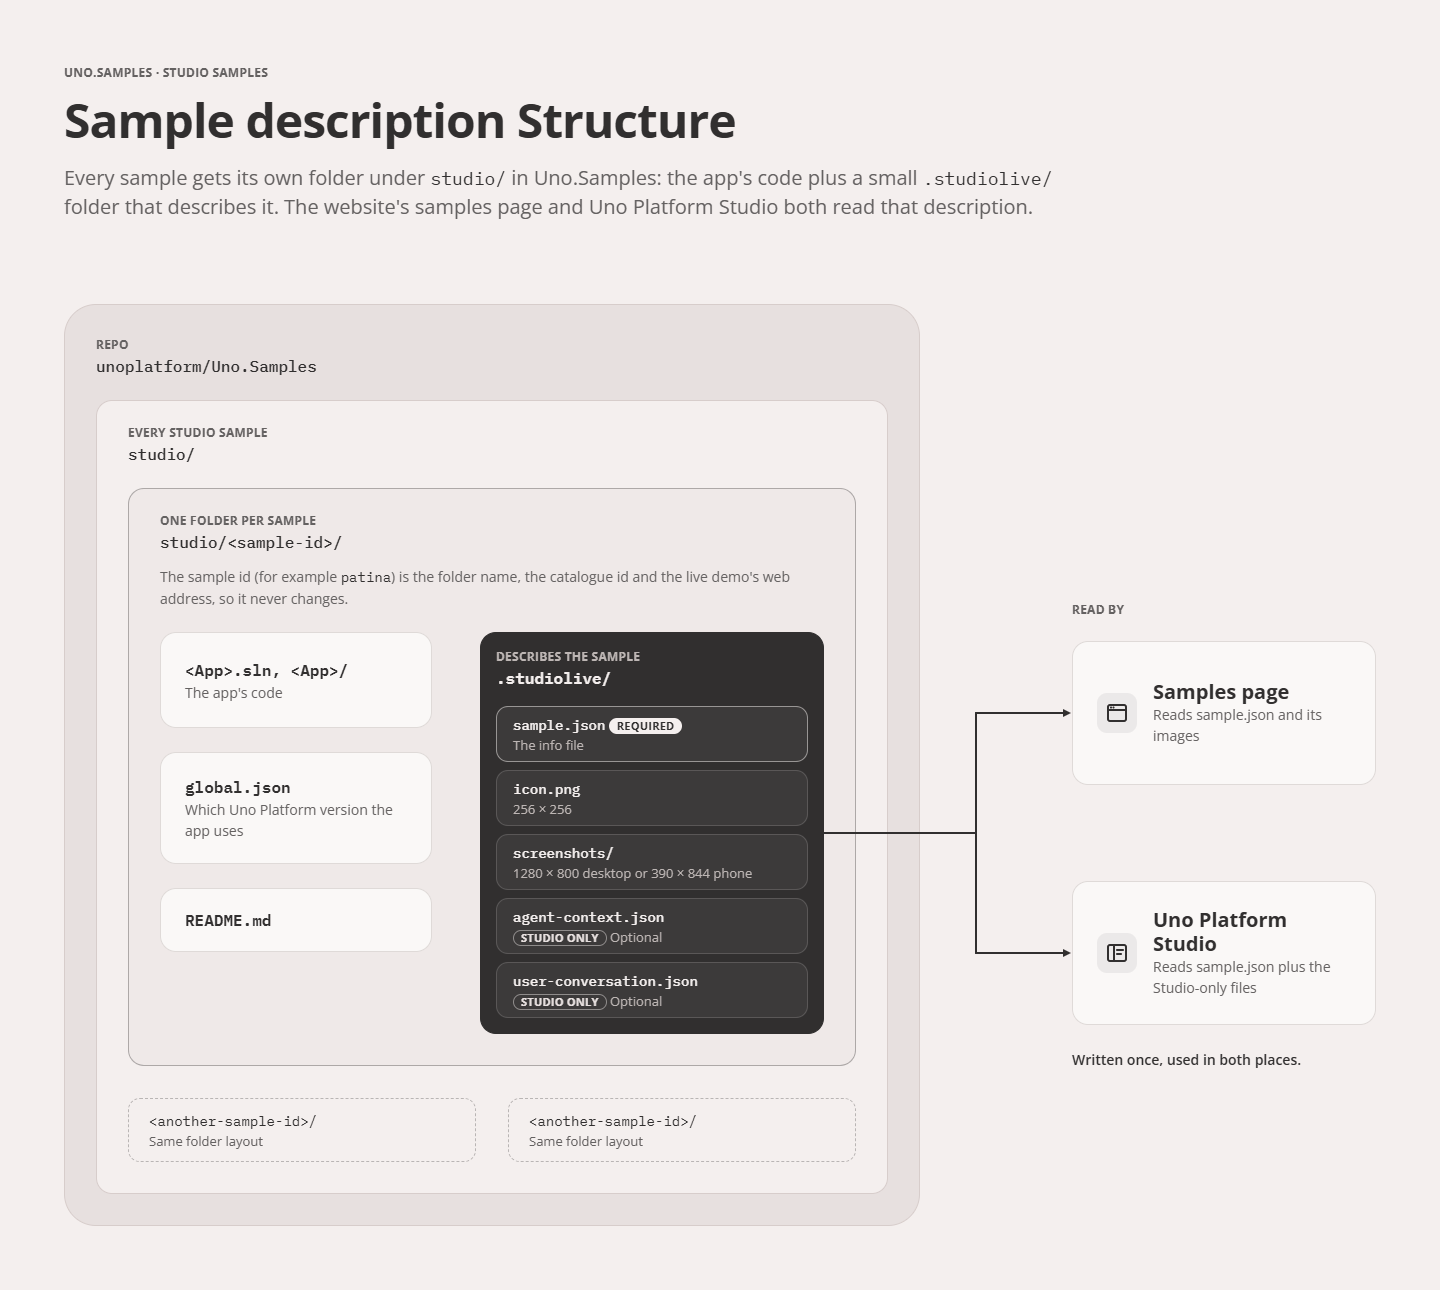
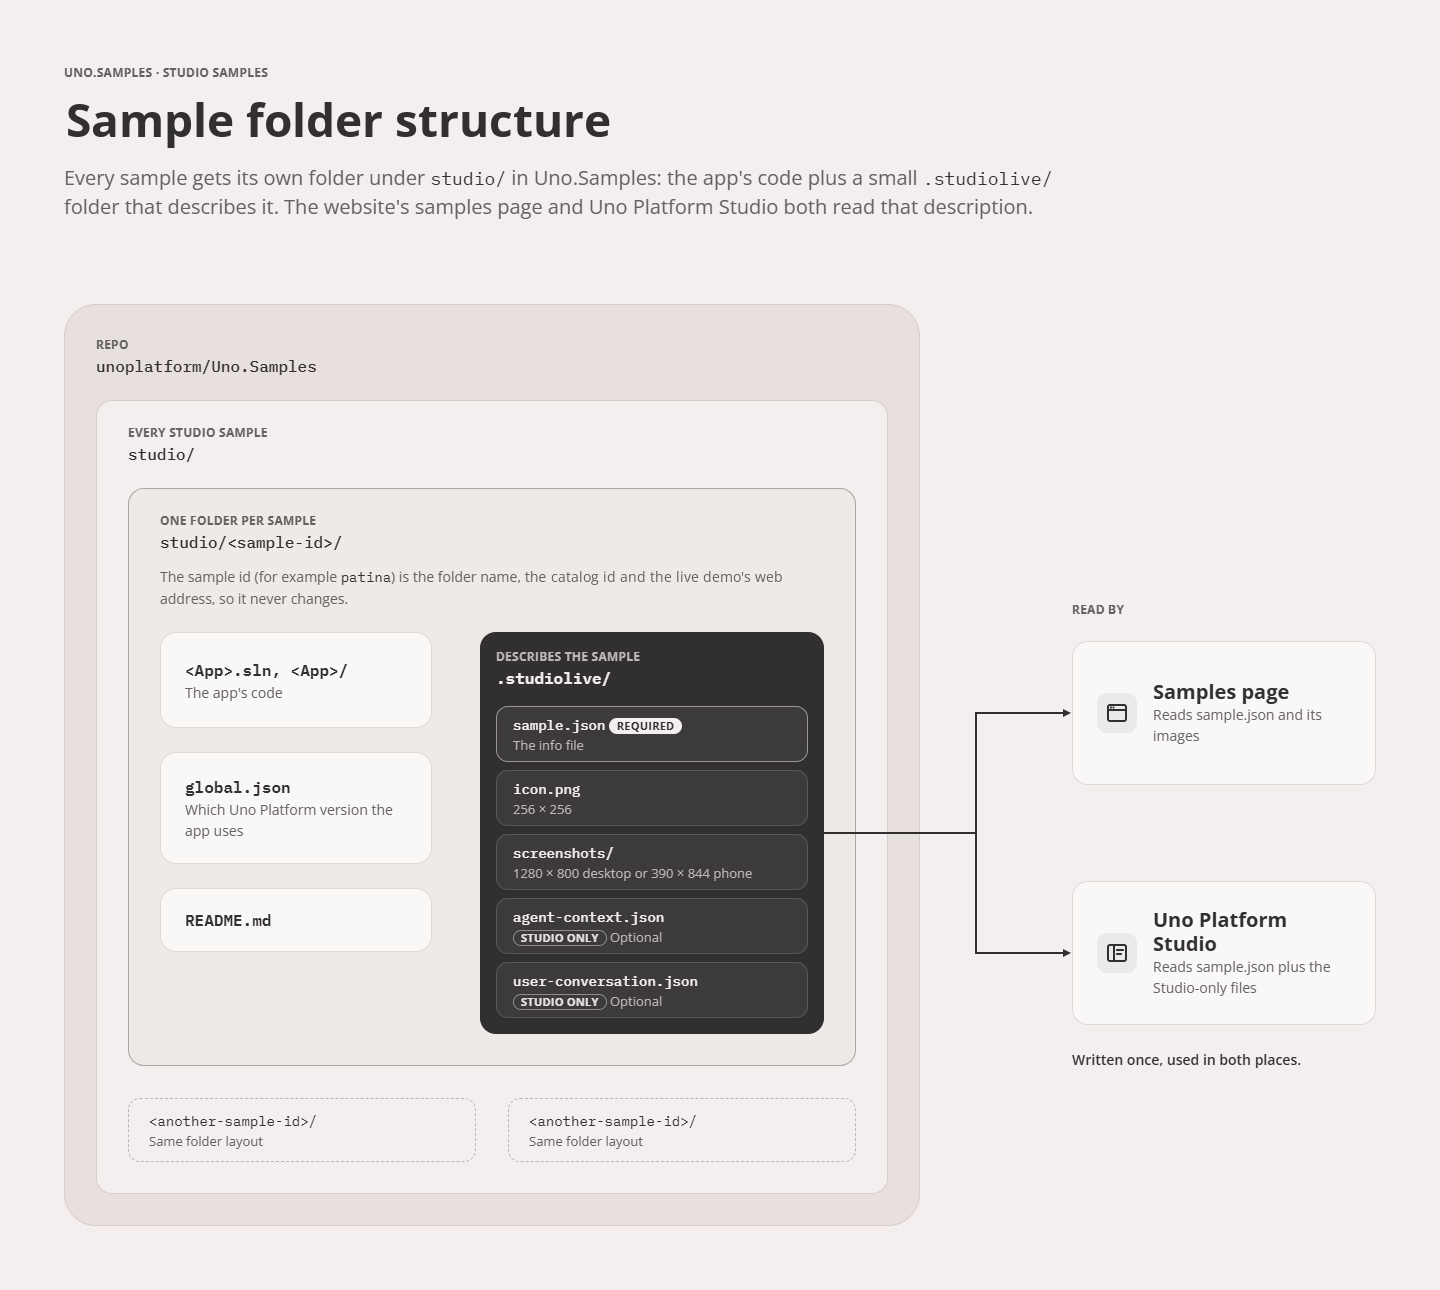
docs: describe what CI checks today and treat id as a repo convention
From the review on #967:
- The checker command drops -I (it hid user-installed Pillow) and documents --no-images and --root.
- Step 4 of "Adding a sample" says what CI does today: it builds every solution; running the checker, the
  Uno version check and the web preview are planned, so authors run the checker themselves.
- id moves out of Studio's fields into a repo-convention note: Studio doesn't read it, the checker does.
- Notes that user-conversation.json may start with an empty messages list.
- The diagram's title reads "Sample folder structure" and uses "catalog", matching the README.

Claude-Session: https://claude.ai/code/session_01WDQXJQZnNLgRRcnD2ebucM

Changed region(s): [[0.1562, 0.062, 0.5, 0.124], [0.375, 0.4341, 0.5312, 0.4651], [0.0625, 0.093, 0.0938, 0.124]]

diff --git a/studio/README.md b/studio/README.md
@@ -17,7 +17,7 @@ studio/
       user-conversation.json   # Studio: prefilled chat and suggested prompts (optional)
       icon.png                 # 256x256, referenced from sample.json
       screenshots/             # 1280x800 landscape or 390x844 portrait, referenced from sample.json
-    global.json                # pins Uno.Sdk; the PR checks read the Uno version here
+    global.json                # pins Uno.Sdk; the checker reads the Uno version here
     <App>.sln
     <App>/<App>.csproj         # sample.json points at this
     README.md
@@ -29,7 +29,7 @@ The samples added before this layout still carry `uno-sample.json` at the sample
 
 ## The info file: `.studiolive/sample.json`
 
-The file has two groups of fields. The top level is Studio's sample manifest, schema v1 (`https://schemas.platform.uno/sample/v1`). The `showcase` object holds the fields the samples page and the PR checks need. Studio does not read `showcase`.
+The file has two groups of fields. The top level is Studio's sample manifest, schema v1 (`https://schemas.platform.uno/sample/v1`). The `showcase` object holds the fields the samples page and the checker need. Studio does not read `showcase`. `id` is a repo convention on top of both (see below).
 
 Worked example, from Patina:
 
@@ -74,7 +74,6 @@ Worked example, from Patina:
 | Field | Required | What it is |
 |---|---|---|
 | `$schema` | yes | `https://schemas.platform.uno/sample/v1`. The format version lives in this URI. |
-| `id` | yes | Kebab-case id, equal to the folder name. |
 | `displayName` | yes | Name on the gallery card and in the chat. |
 | `description` | yes | The gallery card paragraph: what the app is and which patterns it uses. |
 | `platforms` | no | Any of `desktop`, `wasm`, `ios`, `android`, `macos`. Omitted means all. A showcase sample lists `wasm`, since the live demo is the web build. |
@@ -84,8 +83,12 @@ Worked example, from Patina:
 
 Studio's two optional companion files keep their current shape:
 
-- `agent-context.json`: `{ "messages": [ { "role", "content" } ] }`, the technical context the agent receives so it can keep editing the app.
-- `user-conversation.json`: `{ "messages": [...], "suggestedPrompts": [...] }`, the chat Studio shows when the sample opens.
+- `agent-context.json`: `{ "messages": [ { "role", "content" } ] }`, the technical context the agent receives so it can keep editing the app. The checker expects at least one message, since an empty context does nothing.
+- `user-conversation.json`: `{ "messages": [...], "suggestedPrompts": [...] }`, the chat Studio shows when the sample opens. Studio needs the `messages` list but not any messages in it, so an empty list with only `suggestedPrompts` is fine.
+
+### Repo convention: `id`
+
+`id` sits at the top level next to Studio's fields, but Studio doesn't read it. It is this repo's convention: kebab-case and equal to the folder name, and the checker enforces both. It keeps the info file self-describing when it is read on its own, for example by the samples page.
 
 ### Showcase fields (`showcase`)
 
@@ -104,7 +107,7 @@ Studio's two optional companion files keep their current shape:
 ### What is deliberately not in the file
 
 - **Featured, sort order, published**: the catalog decides these. One list.
-- **Uno Platform version**: `global.json` already pins it. The PR checks read it from there and compare it with what Studio supports.
+- **Uno Platform version**: `global.json` already pins it. The checker reads it from there; comparing it with what Studio supports is a planned PR check (see step 4 below).
 - **Source link**: the repo plus the folder gives it; nothing to keep in sync.
 - **Prompt that generated the app**: `user-conversation.json`, when there is one.
 
@@ -113,7 +116,7 @@ Studio's two optional companion files keep their current shape:
 1. Create `studio/<sample-id>/` with the app, `global.json` pinned to the Uno.Sdk version the catalog supports, and a README.
 2. Add `.studiolive/sample.json` with every required field above, plus `icon.png` and at least one screenshot.
 3. Add `agent-context.json` and `user-conversation.json` so the sample opens in Studio with context.
-4. Go through [Before you open the PR](#before-you-open-the-pr), then open the PR. The checks validate the info file, build the project, confirm the platforms and the Uno version, and post a web preview link.
+4. Go through [Before you open the PR](#before-you-open-the-pr), including the checker, then open the PR. CI builds every solution in the repo, this one included. It does not run the checker yet, and it doesn't check the Uno version against Studio or post a web preview; those are planned, so run the checker yourself and mention the result in the PR.
 5. After merge, ask for a catalog entry (Dev first, then live). The sample appears on the samples page once the catalog lists it.
 
 ## Before you open the PR
@@ -127,6 +130,6 @@ A sample usually comes from a development repo, and that repo carries things a p
 - **Replace the template logo.** The launcher icon and splash (`Assets/Icons`, `Assets/Splash`) are the app's own, and `icon.png` is that icon at 256x256.
 - **Take screenshots from the running app** at exactly 1280x800 or 390x844. A headless browser over the web build gives exact sizes without touching your desktop.
 - **Check asset licences.** Bundled photos, fonts and data allow redistribution, and their credits stay with them.
-- **Run the checker:** `python -I build/validate_studio_sample.py <sample-id>` checks the layout and info file against this page. It needs Pillow for the image sizes.
+- **Run the checker:** `python build/validate_studio_sample.py <sample-id>` checks the layout and info file against this page. It needs Pillow for the icon and screenshot sizes (`pip install pillow`) and fails without it; `--no-images` skips those checks on purpose. `--root <folder>` checks a sample that isn't in this repo yet.
 
 The icon and screenshot URLs point at `master`, so they show only after the merge.
